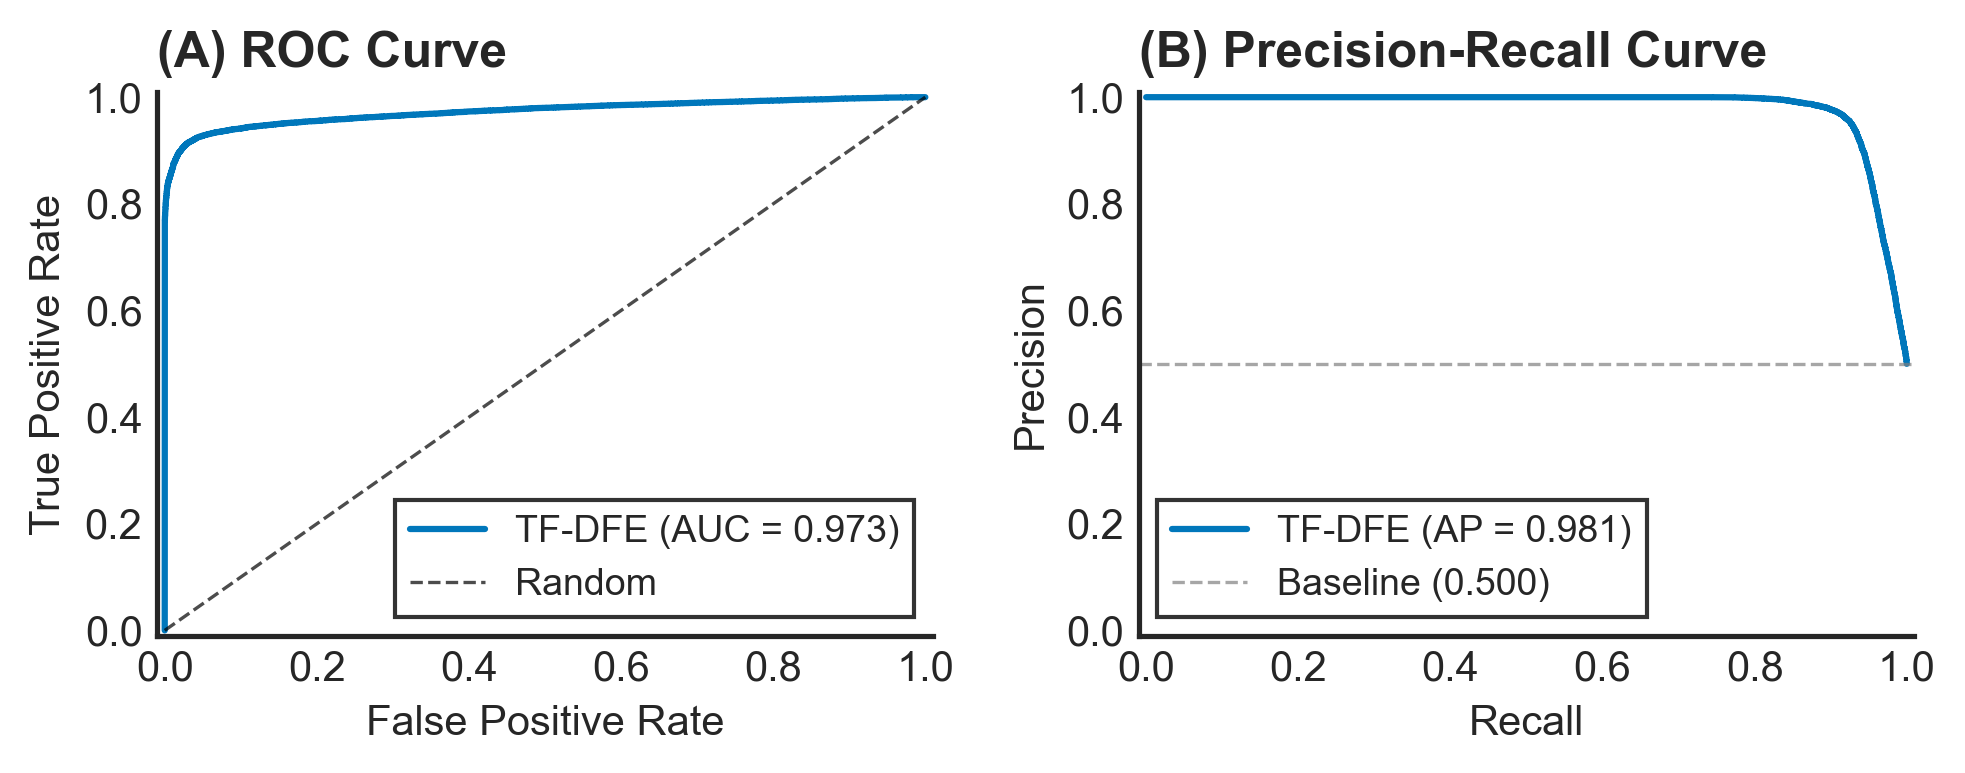
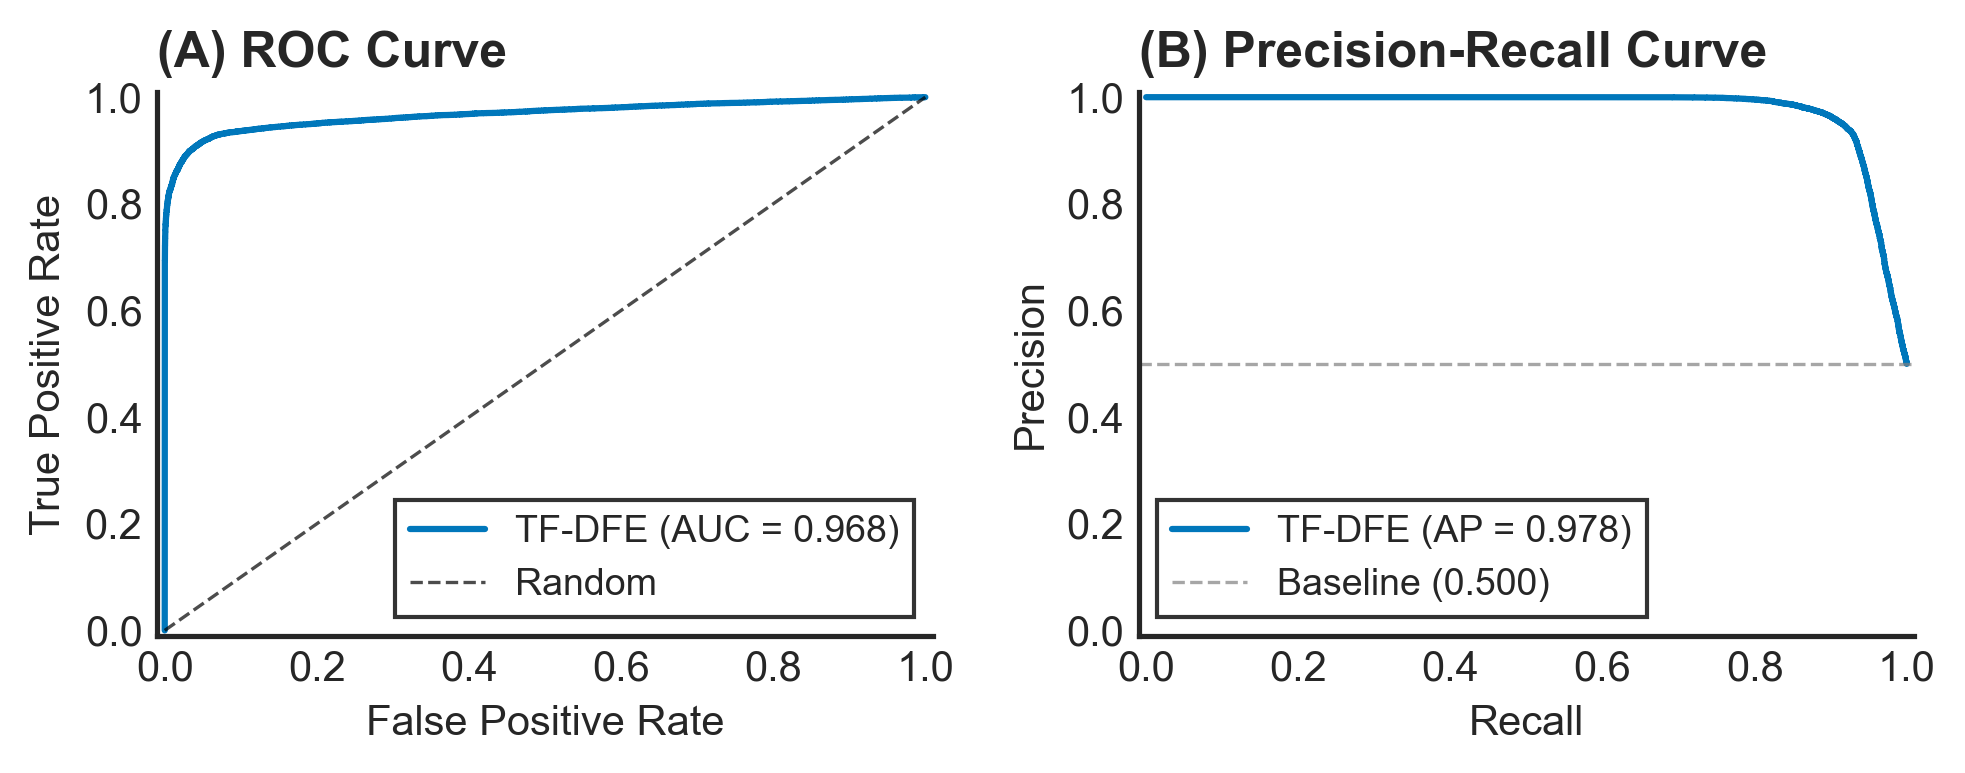
Update README with improved performance metrics and enhance result figures

diff --git a/README.md b/README.md
@@ -1,16 +1,16 @@
-# Pathogenicity Prediction Framework
+# TF-DFE: Topological and Fractal Dynamic Fuzzy Ensemble for Pathogenicity Prediction
 
 ![Python](https://img.shields.io/badge/python-3.10%2B-blue)
 ![License: MIT](https://img.shields.io/github/license/asifahamed11/TF-DFE)
 [![DOI](https://zenodo.org/badge/DOI/10.5281/zenodo.21128095.svg)](https://doi.org/10.5281/zenodo.21128095)
-![MCC](https://img.shields.io/badge/MCC-0.8846-brightgreen)
-![AUROC](https://img.shields.io/badge/AUROC-0.9726-brightgreen)
+![MCC](https://img.shields.io/badge/MCC-0.8858-brightgreen)
+![AUROC](https://img.shields.io/badge/AUROC-0.9681-brightgreen)
 
 This repository contains the preprocessing, feature engineering, and modeling scripts for the pathogenicity prediction project.
 
 ## Results
 
-MCC: **0.8846** · AUROC: **0.9726** · 207K variants (dbNSFP v5.3a)
+MCC: **0.8858** (Selective Prediction) · AUROC: **0.9681** · 207K variants (dbNSFP v5.3a)
 
 | <img src="results/Fig1_ROC_PR_curves.png" width="500"> | <img src="results/Fig_CM_TF-DFE.png" width="280"> | <img src="results/Fig_SHAP_summary.png" width="280"> |
 | :---: | :---: | :---: |